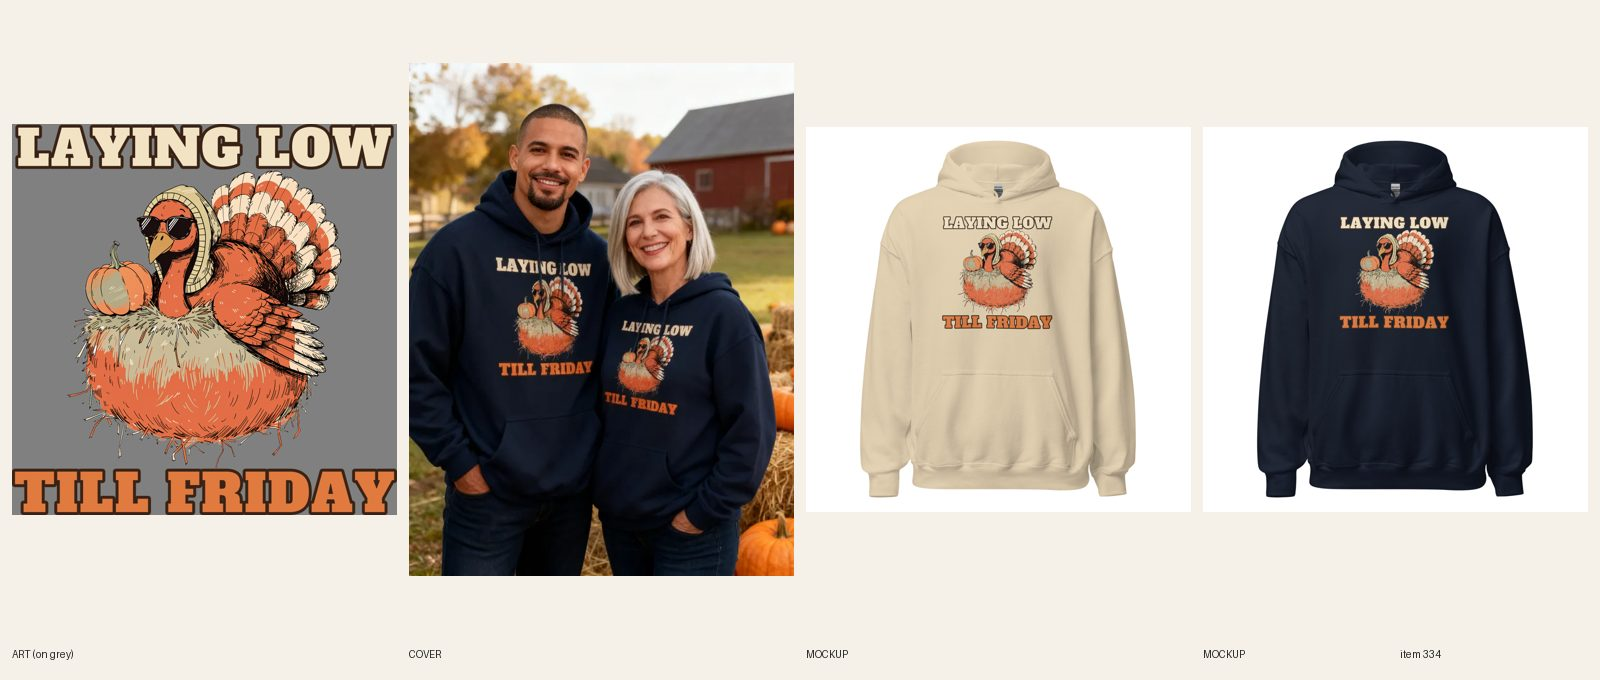
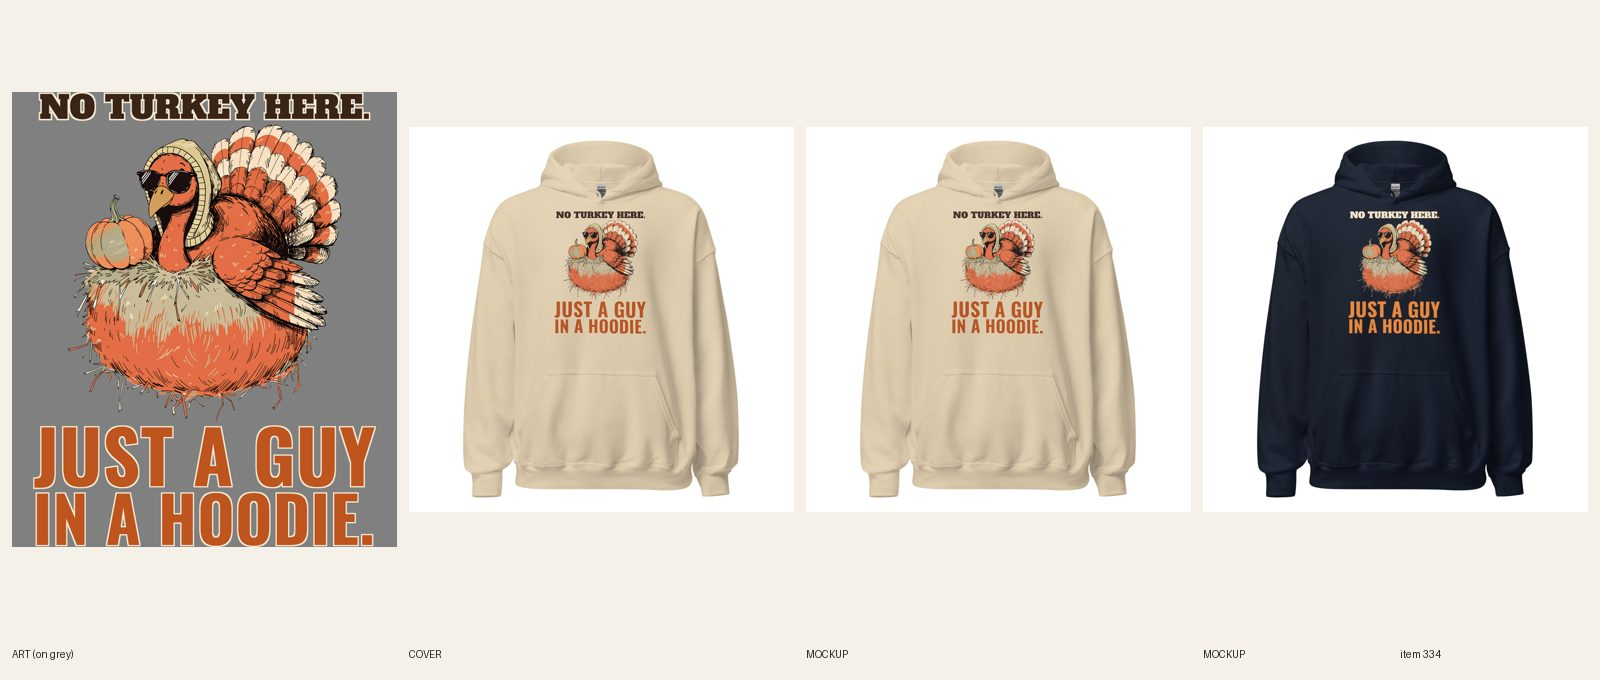
[C] review 334 (redo)
Claude-Session: https://claude.ai/code/session_01CCHcDj8LcJJ8qUPtKE3cvn

Changed region(s): [[0.0, 0.0926, 0.5, 0.8647], [0.8125, 0.3088, 0.9062, 0.4941], [0.5938, 0.3088, 0.6562, 0.4941]]

diff --git a/designs/c334/make.py b/designs/c334/make.py
@@ -1,0 +1,37 @@
+from PIL import Image, ImageDraw, ImageFont, ImageFilter
+FD='designs/fonts/'
+RED=(196,52,44,255); BROWN=(58,36,18,255); RUST=(190,84,30,255); ORG=(240,138,60,255); CREAM=(246,236,214,255); BROWN=(58,36,24,255)
+def line(text,font,wfrac,W,fill,key,kw=31,track=0,var=None):
+    def mk(sz):
+        f=ImageFont.truetype(FD+font,sz)
+        if var: f.set_variation_by_axes(var)
+        return f
+    f=mk(800); adv=[f.getlength(c) for c in text]
+    tot=sum(adv)+track*(len(text)-1); size=int(800*W*wfrac/tot)
+    f=mk(size); adv=[f.getlength(c) for c in text]; tr=int(track*size/800)
+    asc,desc=f.getmetrics(); tot=int(sum(adv)+tr*(len(text)-1))
+    pad=80; im=Image.new('RGBA',(tot+2*pad,asc+desc+2*pad),(0,0,0,0))
+    def draw(layer,col):
+        d=ImageDraw.Draw(layer); x=pad
+        for c,a in zip(text,adv): d.text((x,pad),c,font=f,fill=col); x+=a+tr
+    k=Image.new('L',im.size,0); d=ImageDraw.Draw(k); x=pad
+    for c,a in zip(text,adv): d.text((x,pad),c,font=f,fill=255); x+=a+tr
+    k=k.filter(ImageFilter.MaxFilter(kw)); im.paste(Image.new('RGBA',im.size,key),(0,0),k)
+    draw(im,fill)
+    return im.crop(im.getbbox())
+def build(tag,c1,k1,c2,k2,bgc):
+    im=Image.open('docs/print-files/334-laying-low-till-friday.png').convert('RGBA'); W=im.width
+    art=im.crop((0,416,W,3052))
+    h1=line("NO TURKEY HERE.",'AlfaSlabOne-Regular.ttf',0.86,W,c1,k1,kw=27)
+    pa=line("JUST A GUY",'Oswald[wght].ttf',0.89,W,c2,k2,kw=23,track=8,var=[700]); pb=line("IN A HOODIE.",'Oswald[wght].ttf',0.89,W,c2,k2,kw=23,track=8,var=[700])
+    h2=Image.new('RGBA',(W,pa.height+24+pb.height),(0,0,0,0)); h2.alpha_composite(pa,((W-pa.width)//2,0)); h2.alpha_composite(pb,((W-pb.width)//2,pa.height+24)); print('punch lines px',pa.width,pb.width)
+    print(tag,'headline px',h1.width,'punch block px',h2.width,'heights',h1.height,h2.height)
+    g=36; H=h1.height+g+art.height+g+h2.height
+    out=Image.new('RGBA',(W,H),(0,0,0,0))
+    out.alpha_composite(h1,((W-h1.width)//2,0)); y=h1.height+g
+    out.alpha_composite(art,(0,y)); y+=art.height+g
+    out.alpha_composite(h2,((W-h2.width)//2,y))
+    out.save(f'docs/print-files/334-v3-no-turkey-{tag}.png'); print(out.size,H/W)
+    bg=Image.new('RGBA',out.size,bgc); bg.alpha_composite(out); bg.convert('RGB').resize((600,int(600*H/W))).save(f'designs/c334/prev3_{tag}.png')
+build('sand',BROWN,CREAM,RUST,CREAM,(214,196,160,255))
+build('navy',CREAM,BROWN,ORG,BROWN,(38,50,88,255))

diff --git a/docs/pipeline/334-thanksgiving-hoodie-laying-low-till-friday.md b/docs/pipeline/334-thanksgiving-hoodie-laying-low-till-friday.md
@@ -1,4 +1,4 @@
-status: BUILDING [C] 2026-10-20 07:23
+status: REVIEW
 lane: C
 type: new
 id: 334
@@ -30,3 +30,4 @@ kd: 31
 - 2026-10-17 21:02 UTC builder [C]: REVIEW. Sync 12/12. Sheet docs/review/334.jpg. design-crops and variant-photo audit cover published products only: rerun when ACTIVE. Local cohesion audit not run (no spec file); copy checked by hand against the art. Cover is a director call: both hoodie drawstrings fall across the print.
 - 2026-10-17 21:19 UTC director: LIVE. sheet seen: turkey in a hood and sunglasses on a hay bale, LAYING LOW / TILL FRIDAY reads on both colors; unisex couple at a barn. ACTIVE + Online Store, Headless, Google & YouTube; audit --handle PASS.
 - 2026-10-18 17:22 UTC director: QUALITY RESET grade C (new line + type), REDO. The product stays ACTIVE (same handle, URL, title keyword). 1. Line (R3.12, quality-reset 'Lines'): "LAYING LOW / TILL FRIDAY": Mild turkey-hiding pun; smirk at best, no 3-second laugh. Type itself is strong. Write 5 candidates, keep the one a stranger laughs at in 3 seconds without backstory; kill lines that only describe the picture; if none of the 5 is funny, PARK it. 2. Quality reset type bar (docs/backlog/quality-reset.md, 'The new bar'): headline at least 90% of the art width, heavy, colors pulled from the art; second line at least 45% of the headline's height, never a thin script on a dark or mid garment; use the lettering as a shape (arch, stacked lockup, words breaking into the art), not a plain bar above and a script line below; no font used on more than 1 in 6 of the last 30 designs. 3. Keep the art if it carries the new line, else one new illustration (R4/R5). New print means a new cover per R6.10, copy line one rewritten for the new joke (R8.3), and a fresh review sheet (R7.7). While quality-reset.md says PAUSED, only lane A builds, and only the samples step 2 names.
+- 2026-10-20 07:32 UTC builder [C]: REDO new line + type (grade C). 5 candidates, compared with Sorry About Your Windshield., Oops. Anyway. and Plot Twist: I Stayed In: "NO TURKEY HERE. / JUST A GUY IN A HOODIE." (kept: a denial from a turkey in sunglasses and a hood, a stranger gets it in 3 seconds), "LAYING LOW TILL FRIDAY" (old), "WITNESS PROTECTION. BACK FRIDAY.", "ALIBI: I'M A HOODIE GUY", "THURSDAY? NEVER HEARD OF HER.". Same turkey/hay-bale art. Measured ink widths (card 7h): headline NO TURKEY HERE. 2951 px / punch JUST A GUY 3049 px and IN A HOODIE. 3004 px (both punch lines wider than the headline; the punch block is 1082 px tall vs 256). Fonts: Alfa Slab One headline, Oswald Bold punch. Light-file (R5.3.8): Sand file 1090233279 has the headline dark brown with a cream keyline and the punch rust; Navy file 1090233375 has the headline cream with a brown keyline and the punch orange (docs/print-files/334-v3-no-turkey-sand.png / -navy.png); logged: light file Sand on file 1090233279, headline fill brown. Print 3425 x 4046, FW 1500 TOP 0, 12/12 relinked (verified on the API before REVIEW). 2 fronts replaced in place, read at phone size; first try set the punch on one line (too small at phone size), so I broke it in two. Copy, FAQ and SEO rewritten for the new line; Thanksgiving order-by Nov 12 kept. Plain product shot. fal $0.

diff --git a/docs/intake-log.md b/docs/intake-log.md
@@ -1,5 +1,6 @@
 RUNNING lane B since 2026-10-20 07:29 UTC
 RUNNING lane C since 2026-10-20 07:00 UTC
+2026-10-20 07:32 UTC — [C] Builder run: redid #334 Unisex Thanksgiving turkey hoodie (new line + type: NO TURKEY HERE. / JUST A GUY IN A HOODIE., headline 2951 px / punch 3049+3004 px, Alfa Slab + Oswald, same turkey art, Sand file 1090233279 + Navy file 1090233375, FW 1500 TOP 0, 12/12 relinked, 2 fronts replaced in place, copy + SEO updated). REVIEW. fal $0.
 2026-10-20 08:00 UTC — [D] Director run: inbox nothing new. 6 LIVE (cap): #252 #323 #365 #386 #395 #409, audit PASS (#323 SEO title added). Reviewed 25: 23 approved and held (8 stale titles fixed, #492 meta added; new cropped hoodie #697 approved, still DRAFT), 2 REDO (#455 dreidel faces read as fake Hebrew R5.3.9; #469 repeats #486 punch R13.3). Builder card 7i (retitle on every line redo). #513 to reference/best. Queue: 12 READY in each of A, B, C, E; no briefs needed. No Telegram (not a digest run).
 2026-10-20 07:22 UTC — [C] Builder run: redid #507 Women's National Park oversized hoodie round 2 (director note: scene edges broken up all round, scene 64% of the print width, Dust file 1090229058 + Navy file 1090229099, FW 1500 TOP 10, 12/12 relinked, 2 fronts replaced in place). REVIEW. fal $0.
 2026-10-20 07:13 UTC — [C] Builder run: redid #506 Men's Golf retired zip hoodie round 2 (director note: RETIRED. / BAD AT GOLF FULL-TIME., punch 2749/2734 px vs headline 2597 px, scene edge ragged-edge.py, Ash file 1090222550 + Navy file 1090222579, BW 1650 BT 225, 12/12 relinked, back mockups replaced, copy + SEO updated). REVIEW. fal $0.
